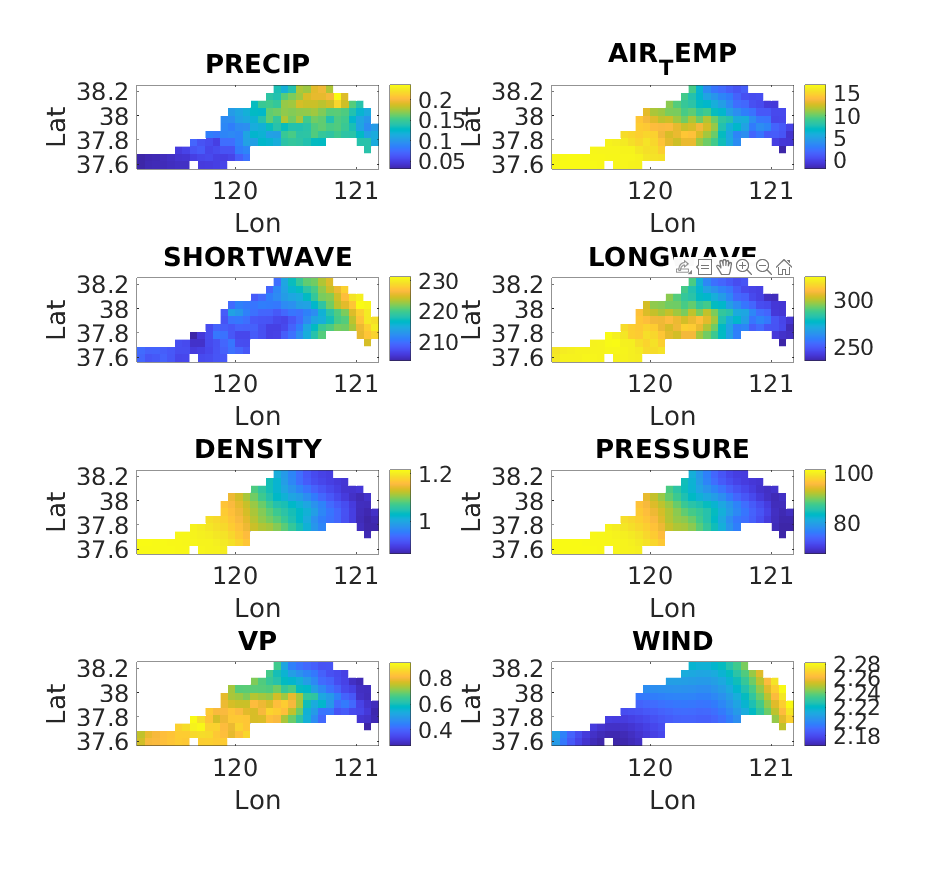
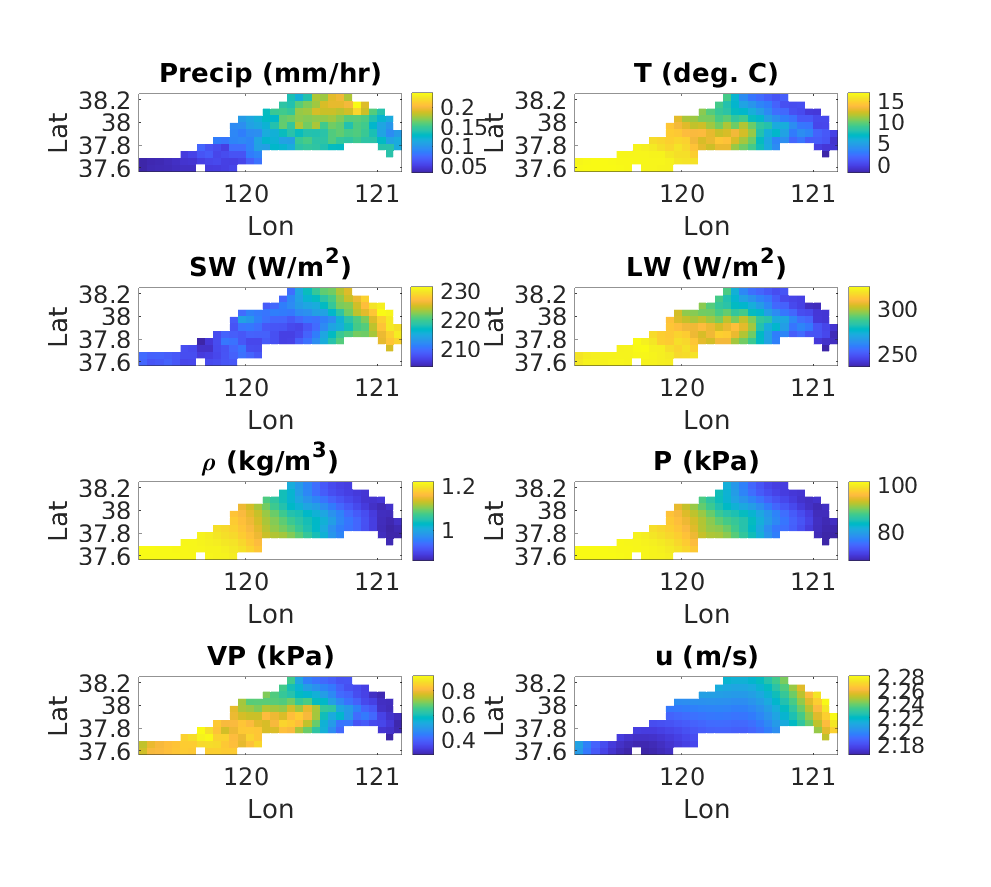
pre-release

diff --git a/docs/tuolumne_example.m b/docs/tuolumne_example.m
@@ -81,11 +81,11 @@ setup = 'livneh';
 
 figure, subplot(2,1,1)
 [elev, R, lon, lat] = geotiffread2(fullfile(soilvarpath, 'elev.tif'));
-plotraster(lon, lat, elev, 'Elevation')
+plotraster(lon, lat, elev, 'Elevation (m)')
 
 subplot(2,1,2)
 [dsmax, R, lon, lat] = geotiffread2(fullfile(soilvarpath, 'dsmax.tif'));
-plotraster(lon, lat, dsmax, 'Dsmax')
+plotraster(lon, lat, dsmax, 'Dsmax (mm/day)')
 
 %% Subset meteorological forcing data 
 
@@ -122,7 +122,7 @@ plotraster(forc.lon, forc.lat, tmax_map, 'TMAX (deg. C)')
 
 subplot(2,1,2)
 prec_map = xyz2grid(forc.lon, forc.lat, mean(forc.PRECIP)');
-plotraster(forc.lon, forc.lat, prec_map, 'PREC (mm)')
+plotraster(forc.lon, forc.lat, prec_map, 'PREC (mm/day)')
 
 % Save as Geotiff
 geotiffwrite('./data/livneh_precipitation_2009-2011_average.tif', ...
@@ -162,10 +162,13 @@ for i=1:nvars
     avg_maps.(varnames{i}) = fliplr(xyz2grid(forc.lon, forc.lat, mean(forc.(varnames{i}),1)'));
 end
 
+labels = {'Precip (mm/hr)','T (deg. C)','SW (W/m^2)','LW (W/m^2)','\rho (kg/m^3)','P (kPa)','VP (kPa)','u (m/s)'};
+
 figure
 for i=1:nvars
     subplot(4,2,i)
-    plotraster(forc.lon, forc.lat, avg_maps.(varnames{i}), varnames{i})
+    plotraster(forc.lon, forc.lat, avg_maps.(varnames{i}), labels{i})
+%     plotraster(forc.lon, forc.lat, avg_maps.(varnames{i}), varnames{i})
 end
 
 % Save as Geotiff
@@ -228,7 +231,7 @@ basin_mask_name = './data/upptuo_mask.tif';
 % from the column number
 
 precip_map = xyz2grid(info.lon, info.lat, mean(precip,2));
-figure, plotraster(info.lon, info.lat, precip_map, 'Precip (mm)')
+figure, plotraster(info.lon, info.lat, precip_map, 'Precip (mm/day)')
 
 % Save as Geotiff
 geotiffwrite('./data/precipitation_output_2009-2011_average.tif', ...

diff --git a/vicmatlab/outputs/load_vic_output.m b/vicmatlab/outputs/load_vic_output.m
@@ -19,7 +19,7 @@ eb_out_dir = fullfile(vic_out_dir, 'eb');
 info = get_vic_run_metadata(vic_out_dir, timestep_out);
 
 [mask1, ~, lon1, lat1] = geotiffread2(basin_mask);
-figure, plotraster(lon1, lat1, mask1, '','','')
+% figure, plotraster(lon1, lat1, mask1, '','','')
 
 % Initialize arrays
 wbnames = dir([wb_out_dir '/*.txt']);

diff --git a/docs/index.md b/docs/index.md
@@ -1,46 +1,43 @@
-## VICMATLAB: A MATLAB toolbox for the Variable Infiltration Capacity model
-
-### Overview
-
-VICMATLAB is a MATLAB toolbox to make researchers' lives easier when using the Variable Infiltration Capacity (VIC) model. It is a collection of MATLAB functions for preparing inputs for --- and analyzing outputs from --- the VIC model.
-
-### Using VIC to model the Tuolumne River Basin
+## Using VICMATLAB to model the Tuolumne River Basin
 
 A demo for new users of the VICMATLAB Toolbox  
 April 13, 2020
 
-This is a tutorial to demonstrate how to use VICMATLAB to prepare inputs for and analyze results from the VIC model. The test basin is the Upper Tuolumne River Basin, near Yosemite National Park, California.
+This is a tutorial to demonstrate how to use VICMATLAB to prepare inputs for and analyze results from the VIC model. The test basin is the Upper Tuolumne River Basin, near Yosemite National Park, California (about 5000 sq. km). The intent of the tutorial is to demonstrate the capabilities of VICMATLAB. When applicable, plots are averaged over the 2009-2011 calendar years.
 
-Before running this code, make sure that all files and paths are set properly according to your system. You will need VIC-4 and VIC-5, as well as the VICMATLAB toolbox.
-
-This script is set up for the VIC parameters from Livneh et al. (2013). It could easily be adjusted for another set of VIC parameters, such as VICGlobal (actually do this).
+To run this code, make sure that all files and paths are set properly according to your system. You will need VIC-4 and VIC-5, as well as the VICMATLAB toolbox. This example assumes the user is modeling at 1/16 degree resolution, with the VIC soil, vegetation, and elevation band files for the continental U.S. from [Livneh et al. (2013)][L13], but it could easily be adjusted for another set of VIC parameters.
 
 #### 1. Obtain a shapefile of the study area. 
 
  You can download this from the USGS National Map Viewer website here: <https://viewer.nationalmap.gov/basic/>
 
- The first step is to extract the Tuolumne River Basin in R. 
+ The first step is to extract the Tuolumne River Basin using your favorite GIS software. I used R. (R makes a great GIS. See, for example, this [blog post](https://www.r-bloggers.com/r-as-gis-for-ecologists/)).
 
 ```r
+
+# Load HUC-8 basins into R
 huc8 <- readOGR(".../Shape/WBDHU8.shp")
+
+# Find the basin boundary for the Upper Tuolumne basin
 upptuo <- huc8[huc8$Name == "Upper Tuolumne",]
 writeOGR(tuolumne, "./data/upptuo.shp", driver = "ESRI Shapefile", layer = "bdy")
-
-# Load the RoutR package, and use it to make an elevation map masked to the basin (also in R).
 
 merit_mask <- raster(".../MERIT/DEM/Merged_1_16/merit_mask_1_16.tif")
 merit_dem <- raster(".../MERIT/DEM/Merged_1_16/merged_merit_dem_1_16.tif")
 
-upptuo_dem <- clip_raster(merit_dem, upptuo) 
+# Clip DEM to basin boundary
+cropped_dem <- crop(merit_dem, upptuo)
+upptuo_raster <- rasterize(upptuo, cropped_dem)
+upptuo_dem <- cropped_dem*upptuo_raster
 
 writeRaster(upptuo_dem, "./data/revised_basin/upptuo_dem.tif", NAflag = 0, datatype = "INT2S")
  ```
 
 #### 2. Download forcing data
 
- 1. Download Livneh et al. (2013) or Livneh et al. (2015) NetCDF meteorological forcing data.
- 2. We will use Livneh et al. (2013) data for this tutorial. 
- 3. The data can be downloaded from the Livneh Research Group [website](https://www.esrl.noaa.gov/psd/data/gridded/data.livneh.html).
+ 1. Download [Livneh et al. (2013)][L13] or [Livneh et al. (2015)][L15] NetCDF meteorological forcing data.
+ 2. We will use [Livneh et al. (2013)][L13] data for this tutorial. 
+ 3. The data can be downloaded from the Livneh Research Group's [website](https://www.esrl.noaa.gov/psd/data/gridded/data.livneh.html). Sample forcing files are included with VICMATLAB.
 
 #### 3. Make a basin mask from the DEM.
 
@@ -66,17 +63,20 @@ geotiffwrite('./data/upptuo_mask.tif', flipud(basin_mask), R);
  
 #### 4. Create soil parameter file
 
-Create the soil parameter file for the basin by subsetting the soil parameter file for the CONUS, from Livneh et al. (2013). This can be downloaded from the same website as the meteorological forcing data.
+Create the soil parameter file for the basin by subsetting the soil parameter file for the CONUS, from [Livneh et al. (2013)][L13]. This can be downloaded from the same website as the meteorological forcing data.
 
 ```matlab
-soilfile = '/home/jschap/Documents/Data/VICParametersCONUS/vic.soil.0625.new.cal.adj.conus.plus.crb.can_no_July_T_avg.txt';
+
+yourpath = 'yourpathgoeshere' % Set your path here.
+
+soilfile = fullfile(yourpath, 'vic.soil.0625.new.cal.adj.conus.plus.crb.can');
 
 disp('Loading soil parameter file')
 soils = load(soilfile);
 disp('Soil parameter file has been loaded')
 
 % extent of the study area; can be specified multiple ways
-extent = fullfile(pwd, './data/upptuo_mask.tif');
+extent = fullfile(pwd, './data/upptuo_mask.tif'); % and here
 
 grid_decimal = 5; % number of decimals used in forcing filenames
 
@@ -107,8 +107,8 @@ plotraster(lon, lat, dsmax, 'Dsmax (mm/day)')
 Create ASCII input files for the meteorological forcing data. Subset it to the basin.
 
 ```matlab
-% force_in = '/Volumes/HD3/Livneh_2013/MetNC'; % directory where forcing data are located
-force_in = '/media/jschap/HD_ExFAT/Livneh_2013/MetNC/';
+
+force_in = 'yourpathgoeshere'; % set path to the forcing files
 numforcings = 4; % number of forcings in daily CONUS daily forcing file
 
 % Beginning and ending years of simulation
@@ -123,7 +123,6 @@ maskname = './data/upptuo_mask.tif'; % basin mask
 
 temp = subset_forcings(force_in, force_out, beginyear, endyear, maskname);
 
-% temp = subset_forcings(force_in, force_out, beginyear, endyear, grid_decimal, numforcings, maskname);
 ```
 
 #### 7. Plot the forcing data
@@ -164,14 +163,15 @@ disp('Running met. forcing disaggregation')
 tic
 system('/home/jschap/Documents/Software/VIC/src/vicNl -g ./data/global_param_disagg.txt')
 toc
-% Takes 54 sec on my laptop for 175 grid cells, 3 years
-% Takes 27 seconds on my desktop! Woohoo for computing power!
 ```
 
 #### 9. Plot the disaggregated forcings
 
 ```matlab
+
+% The location where you have saved the disaggregated forcings
 forcingpath = './data/disagg_forc_2009-2011/';
+
 precision = 5; 
 varnames = {'PRECIP','AIR_TEMP','SHORTWAVE','LONGWAVE','DENSITY','PRESSURE','VP','WIND'};
 prefix = 'full_data_';
@@ -200,7 +200,7 @@ geotiffwrite('./data/livneh_precipitation_downscaled_2009-2011_average.tif', ...
 
 #### 10. Run VIC for water years 2010-2011. 
 
-Set up the global parameter file for this model run, first. 
+Set up the global parameter file for this model run. A template is provided with VICMATLAB, under `/data`.
 
 This setup is for the Upper Tuolumne Basin, in energy balance mode, with the frozen soils module disabled to reduce computational requirements. Use the template global parameter file to generate the specific list of outputs that we are using in this example.
 
@@ -208,9 +208,7 @@ This setup is for the Upper Tuolumne Basin, in energy balance mode, with the fro
 system('/home/jschap/Documents/Software/VIC/vic/drivers/classic/vic_classic.exe -g ./data/global_param.txt')
 ```
 
-Analyze the outputs from the VIC simulation.  
-First, re-organize the VIC outputs by entering the following commands on
-the command line.
+Next, we will analyze the outputs from the VIC simulation.  But first, we have to re-organize the VIC outputs so the VIC-output-loading function can work by entering the following commands on the command line.
 
 ```bash
 cd /home/jschap/Documents/Codes/VICMATLAB/data/out_2009-2011/
@@ -240,7 +238,7 @@ save(fullfile(results_dir, 'vic_run_metadata.mat'), 'info');
 disp(['Saved VIC run metadata as ' fullfile(results_dir, 'vic_run_metadata.mat')])
 
 % Read in and plot the VIC results
-swe_col = 27;
+swe_col = 27; % column of the VIC output file with the variable of interest
 basin_mask_name = './data/upptuo_mask.tif';
 [~, swe_sub, swe, ~] = load_vic_output(vic_out_dir, basin_mask_name, swe_col);
 
@@ -253,9 +251,11 @@ figure, plotraster(info.lon, info.lat, swe_map, 'SWE')
 Check the output precipitation to make sure it matches the input precipitation. 
 
 ```matlab
-prec_col = 13;
+prec_col = 13; % column of the VIC output file with the variable of interest
 basin_mask_name = './data/upptuo_mask.tif';
 [~, ~, precip, ~] = load_vic_output(vic_out_dir, basin_mask_name, prec_col);
+
+% Notes:
 % only works with water balance variables right now.
 % need to generalize the code to handle energy balance variables
 % also should find a less clunky way to specify the variable name, aside
@@ -274,7 +274,7 @@ geotiffwrite('./data/precipitation_output_2009-2011_average.tif', ...
 #### 12. Convert inputs from ASCII to NetCDF
 
 ```matlab
-% must use entire CONUS domain file for the current setup
+% Note: must use Livneh input files for the entire CONUS for the current setup
 
 wkpath = '/home/jschap/Documents/Codes/VICMATLAB/';
 parpath = '/home/jschap/Documents/Data/VICParametersCONUS/';
@@ -291,9 +291,12 @@ inputs.params_name = fullfile(wkpath, '/data/netcdfs/tuolumne_params.nc');
 classic2image(inputs);
  ```
 
-[basinmask]:/img/basin_mask.png
-[precip_output]:/img/precip_out.png
-[swe_output]:/img/swe.png
-[disagg_forcs]:/img/disaggregated_forcings.png
-[ppttmp]:/img/forcings.png
-[soilpars]:/img/soilpars.png
+[basinmask]:./img/basin_mask.png
+[precip_output]:./img/precip_out.png
+[swe_output]:./img/swe.png
+[disagg_forcs]:./img/disaggregated_forcings.png
+[ppttmp]:./img/forcings.png
+[soilpars]:./img/soilpars.png
+
+[L13]:https://journals.ametsoc.org/doi/pdf/10.1175/JCLI-D-12-00508.1
+[L15]:https://www.nature.com/articles/sdata201542

diff --git a/README.md b/README.md
@@ -1,56 +1,62 @@
-# VICMATLAB
-Matlab scripts and functions for processing output files from the Variable Infiltration Capacity (VIC) model for version 4.2.
+## VICMATLAB
+Matlab functions for preparing inputs files --- and processing output files --- for the Variable Infiltration Capacity (VIC) model. Has functionality for the following VIC versions: VIC-4.2.d, VIC-5 Classic Driver, and VIC-5 Image Driver.
 
-## Scripts
-* vicinputworkflow - creates basin-specific VIC input files from met. forcing data and soil data over a larger domain (CONUS)
-* vicoutputworkflow - loads VIC results into Matlab, formats them so they are easy to work with, and generates plots of fluxes and snow states
-* correct_flowdir - plots flow direction map, VIC grid cells, basin boundary, stream network, and gauge locations to make it easy to manually correct the flow direction input file
-* find_stnloc - finds row and column indices of stream gauges for the station location file
-* plotforcings - plots met. forcings (VIC input)
-* routoutputworkflow - loads, processes, and makes plots for VIC (Lohmann) routing model outputs
+## Tutorial
 
-## Functions
-* GetCoords - extracts lat/lon coordinates from VIC output file names. Called by vicoutputworkflow.
-* LoadVICResults - loads VIC results into Matlab. Called by vicoutputworkflow.
-* ProcessVICFluxResults - formats VIC flux outputs. Called by vicoutputworkflow.
-* ProcessVICSnowResults - formats VIC snow state outputs. Called by vicoutputworkflow.
+See the documentation page --- [https://jschap1.github.io/VICMATLAB/](https://jschap1.github.io/VICMATLAB/) --- for a tutorial.
 
-## R scripts
-* routinputworkflow - creates fraction file, watershed mask, and clipped DEM at DEM and/or VIC modeling resolution. Does not create flow direction file (this is best done with ArcMap).
-* modfdir - script for modifying the flow direction file
+### MATLAB functions provided in VICMATLAB
 
-## MATLAB functions provided in VICMATLAB 1.0
+#### Main functions
+
+* subset_forcings
+
+Subsets forcings to a particular basin.
+
+* load_ascii_forcings
+
+Loads ASCII meteorological forcing files into MATLAB.
+
+* get_vic_run_metadata
+
+Gets metadata, such as variable names, length of simulation, etc. from a VIC simulation. 
+
+* load_vic_output
+
+Loads a VIC output variable, such as SWE or net radiation, into MATLAB.
+
+* subset_soils
+
+Clips soil parameter file to basin extent.
+
+* classic2image (credit to DL)
+
+Converts VIC-4 or VIC-5 Classic Driver inputs to NetCDF format for use with the VIC-5 Image Driver.
+
+* plotraster
+
+Main plotting function to make maps of meteorological variables, VIC outputs, soil parameters, etc.
+
+#### Utility functions
+
+* save_forcings
 * georefobj2mat
 * geotiffread2
-* plotraster
-* geotiffwrite
-* imagescnan
-* subset_soils
+* grid2xyz (credit to XX)
+* xyz2grid (credit to XX)
+* imagescnan (credit to XX)
+* get_soil_var_names
 * write_soils
-* subset_forcings
-* grid2xyz
-* xyz2grid
-* check_outputs_wrapper
-* get_vic_run_metadata
 * get_coordinates_from_VIC_file
 * get_vic_header
-* check_latlon
-* readVIC_ds
-* make_outputs_struct
-* plot_spatial_avg_ts
-* plot_time_avg_maps
-* jsplot
-* convert_soil_parameters
-* get_soil_var_names
+* GetCoords
 
+### Requirements
+MATLAB R2016a or later  
+Parallel Computing Toolbox  
+Mapping Toolbox  
+Image Processing Toolbox
 
-## Requirements
-* MATLAB R2016a or later
-* Parallel Computing Toolbox
-* Mapping Toolbox
-* Image Processing Toolbox
-
-## Recommended
-* R, RStudio
-* raster, rgeos, and rgdal packages for R
-
+### Recommended
+R, RStudio  
+raster, rgeos, and rgdal packages for R
